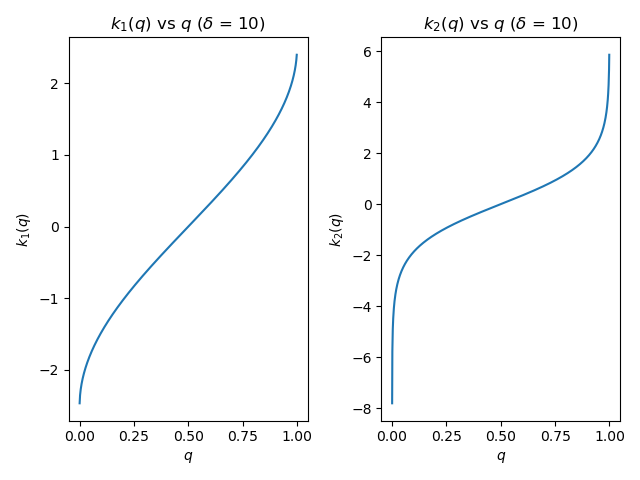
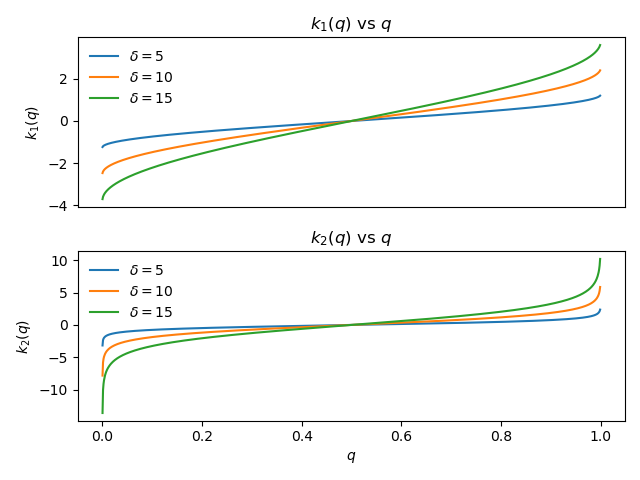
Restructure article

diff --git a/assets/code/t-digest/tdigest.py b/assets/code/t-digest/tdigest.py
@@ -351,20 +351,26 @@ def arbitrary_clustering_examples():
 
 def plot_scale_functions():
   q = np.linspace(0.0001, 0.999, 1000)
-  delta = 10
+  for delta in [5, 10, 15]:
 
-  plt.subplot(121)
-  plt.plot(q, delta/ TAU * np.arcsin(2*q - 1))
-  plt.title(rf"$k_1(q)$ vs $q$ ($\delta$ = {delta})")
-  plt.xlabel(r"$q$")
-  plt.ylabel(r"$k_1(q)$")
+    plt.subplot(211)
+    plt.plot(q, delta / TAU * np.arcsin(2 * q - 1), label=rf"$\delta={delta}$")
+    plt.title(rf"$k_1(q)$ vs $q$")
+    # plt.xlabel(r"$q$")
+    plt.ylabel(r"$k_1(q)$")
+    leg = plt.legend()
+    leg.get_frame().set_linewidth(0.0)
+    plt.tick_params(bottom=False, labelbottom=False)
+    plt.tight_layout()
 
-  plt.subplot(122)
-  plt.plot(q, delta/ (4 * np.log(1/delta) + 21) * np.log(q/(1-q)))
-  plt.title(rf"$k_2(q)$ vs $q$ ($\delta$ = {delta})")
-  plt.xlabel(r"$q$")
-  plt.ylabel(r"$k_2(q)$")
-  plt.tight_layout()
+    plt.subplot(212)
+    plt.plot(q, delta/ (4 * np.log(1 / delta) + 21) * np.log(q/(1-q)), label=rf"$\delta={delta}$")
+    plt.title(rf"$k_2(q)$ vs $q$")
+    plt.xlabel(r"$q$")
+    plt.ylabel(r"$k_2(q)$")
+    leg = plt.legend()
+    leg.get_frame().set_linewidth(0.0)
+    plt.tight_layout()
 
   fname = str(IMG_DIR / "scale-functions.png") 
   plt.savefig(fname)
@@ -454,9 +460,9 @@ if __name__ == "__main__":
   # clustering_with_scale_function_animation()
   # arbitrary_clustering_examples()
   # plot_weakly_ordered_cluster()
-  # plot_scale_functions()
+  plot_scale_functions()
 
-  plot_cdf_examples()
+  # plot_cdf_examples()
   # profiling_example()
   # plot_2d_example()
   # plot_3d_example()

diff --git a/_drafts/2021-05-09-tdigests.md b/_drafts/2021-05-09-tdigests.md
@@ -20,15 +20,45 @@ It is not difficult to work out an algorithm for computing some statistics acros
 
 But suppose instead you are interested in knowing the 95th percentile of the data. In general, knowing the 95th percentile of the data in each shard of the data is insufficient to know the 95th percentile of the data globally. The _t_-digest is a probablistic data structure that allows accurate estimation of arbitrary percentiles of the _global_ data without keeping all of the data in memory.
 
-## Summarising the Cumulative Distribution Function
-The _t_-digest is essentially a compressed representation of the data's cumulative distribution function (CDF). To understand how the compression is done, it is easiest to consider the case when all of the data is available in memory. Below are three possible 1d clusterings of 25 data points. 
+# Clustering in 1D
+The _t_-digest relies on compressing univariate data into a small number of clusters while still being representative of the overall distribution (at least approximately). A _cluster_ is simply a collection of points on a number a line. A simple summary of a 1D cluster is provided by its center of mass (also called its centroid) and the number of points it contains (also called its weight). This is encapsulated in the following Python classes:
+
+{% highlight python %}
+from typing import List
+
+class Cluster:
+  def __init__(self, values: List[float]):
+    self._values = values
+
+  def summarise(self) -> ClusterSummary:
+    n_points = len(self._values)
+    center_of_mass = sum(self._values) / n_points
+    
+    return ClusterSummary(center_of_mass, n_points)
+
+class ClusterSummary:
+  def __init__(self, center_of_mass: float, n_points: int):
+    self._center_of_mass = center_of_mass
+    self._n_points = n_points
+
+  @property
+  def centroid(self):
+    return self._center_of_mass
+
+  @property
+  def weight(self):
+    return self._n_points
+
+{% endhighlight %}
+
+To understand how the compression is done, it is easiest to consider the case when all of the data is available in memory. Below are three possible 1d clusterings of 25 data points. 
 
 <figure>
     <a href="/assets/images/t-digest/random-clusters.png"><img src="/assets/images/t-digest/random-clusters.png"></a>
     <figcaption>Figure 1</figcaption>
 </figure>
 
-The clusters in Figure 1 have a property that the authors of the [_t_-digest paper](https://arxiv.org/abs/1902.04023) refer to as "strongly ordered". A collection of clusters is called strongly ordered if a cluster with a smaller center of mass (alternatively called a centroid) than another is guaranteed to have all of its points be less than that of the cluster with the larger center of mass. 
+The clusters in Figure 1 have a property that the authors of the [_t_-digest paper](https://arxiv.org/abs/1902.04023) refer to as _strongly ordered_ A collection of clusters is called strongly ordered if a cluster with a smaller center of mass (alternatively called a centroid) than another is guaranteed to have all of its points be less than that of the cluster with the larger center of mass. 
 
 This strong ordering can be observed in Figure 1 visually as all of the data points belonging to the blue cluster being less than all of the data points belonging to the green cluster and the points in the green cluster all being less than those in the yellow cluster. In contrast, had each data point been randomly assigned to a cluster, regardless of its value, the clustering would almost certainly not exhibit strong ordering.
 
@@ -36,21 +66,6 @@ The clusters stored in the _t_-digest are not built by random assignment, howeve
 
 When a cluster is created, the percentile of the first data point in the cluster is mapped to a $$k$$ value and saved. Points are continually added to the cluster (in sorted order) until enough points are added such that the $$k$$ value has increased by 1. At this point the cluster is considered complete and the centroid (the mean of the data in the cluster), as well as the weight (the number of data points in the cluster) are stored and a new cluster is started. Below is the signature for a cluster in Python.
 
-{% highlight python %}
-class Cluster:
-  def __init__(self, mean, n_points):
-    self._mean = mean
-    self._n_points = n_points
-
-  @property
-  def centroid(self):
-    return self._mean
-
-  @property
-  def weight(self):
-    return self._n_points
-
-{% endhighlight %}
 
 The cluster building process is shown visually in Figure 2 with the crosses denoting cluster centroids. Note how there are fewer points in the clusters at the extreme quantiles where the scale function is steeper.
 
@@ -87,7 +102,7 @@ def cluster_points(points):
           k_lower = k_upper
 {% endhighlight %}
 
-# More on Scale Functions
+## Scale Functions
 At first glance, the choice of scale function seems complicated and arbitrary.
 
 - Mention the scale function must be defined on 0-1
@@ -124,7 +139,8 @@ $$\Delta k \approx \frac{\mathrm{d}k}{\mathrm{d}q}\Delta q$$
 The condition for finishing a cluster, $$\Delta k = 1$$, can be rewritten as $$\frac{\mathrm{d}q}{\mathrm{d}k} = \Delta q$$. And since $$\Delta q$$ is just the number of points in the cluster divided by the total number of data points, it can be said that the cluster sizes are proportional to $$\frac{\mathrm{d}q}{\mathrm{d}k}$$ (at least approximately). For $$k_1$$ this is $$\sqrt{q(1-q)}$$ whereas for $$k_2$$
 the cluster sizes are proportional to $$q(1-q)$$ which has the effect of making smaller, more accurate clusters, in the tails.
 
-# Merging _t_-digests
+# Defining the _t_-digest
+## Merging digests
 The previous section assumes that the data fits into memory (and there is enough memory to sort the data as well). In the scenario where each data file fits into memory, we can compute a _t_-digest per file. To get a single _t_-digest for the entire dataset, we can create a list of all the clusters from each _t_-digest and sort them by their centroids. The clusters are then merged in a greedy fashion by determining if the weight of the merged cluster (defined as the sum of the points in each cluster) leads to an increase in the $$k$$ value less than 1. If so, the two clusters can be replaced with a single merged one using the following code
 
 {% highlight python %}
@@ -187,6 +203,9 @@ def cdf(td, x):
 
     return 1.
 {% endhighlight %}
+
+# Conclusion
+The _t_-digest is essentially a compressed representation of the data's cumulative distribution function (CDF). 
 
 ## Conclusion
 The _t_-digest data structure provides accurate quantile estimates by maintaining a list of clusters, each of which is defined by the number of points it contains and the average value of those points. Linear interpolation between the cluster centroids allows approximation of arbitrary percentiles.
